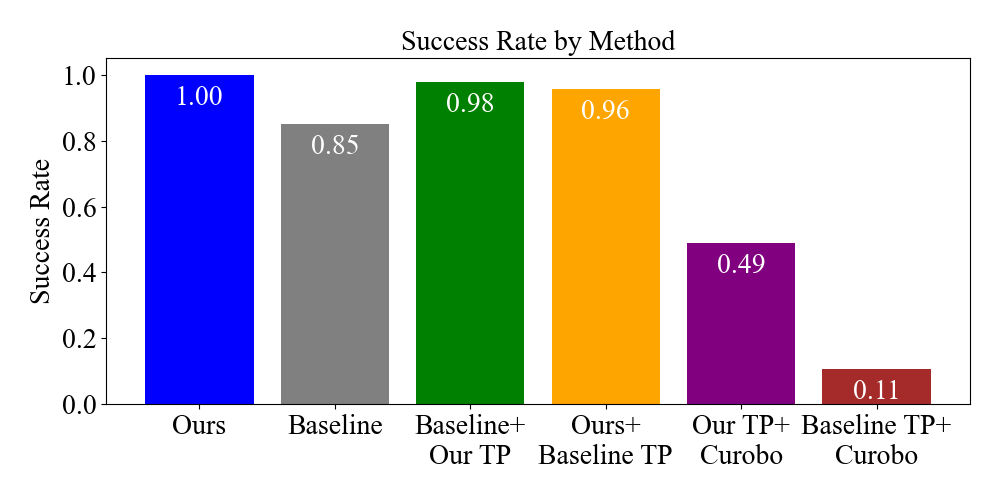
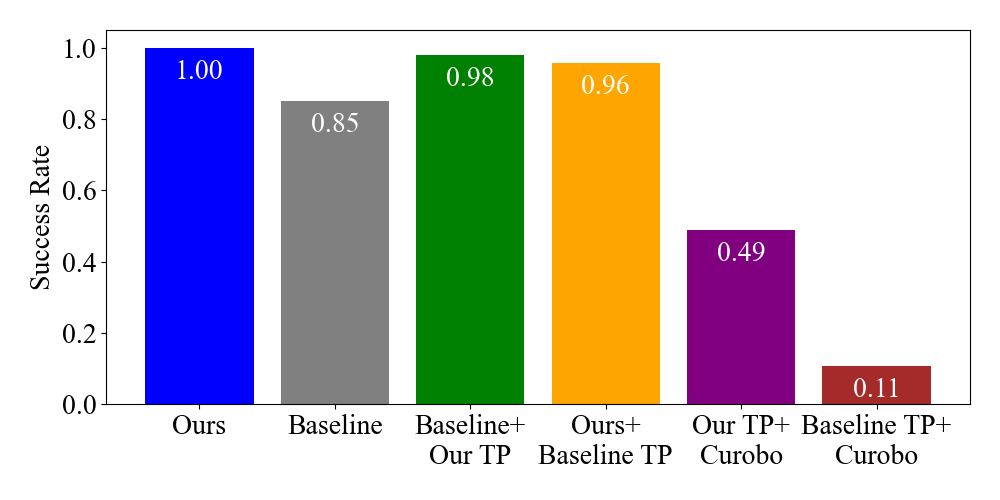
new results

diff --git a/visualize_execution_time.py b/visualize_execution_time.py
@@ -30,6 +30,14 @@ colors = {
     "baseline_tp_with_curobo": "brown"
 }
 
+type_short = {
+    "mixed": "M",
+    "cycled": "S",
+    "double_cycled": "D",
+    "random": "R",
+    "other": "O"
+}
+
 # Helper to extract number of objects from testcase name
 def extract_num_objects(name):
     parts = name.split("_")
@@ -37,6 +45,19 @@ def extract_num_objects(name):
         if part.isdigit():
             return int(part)
     return 0
+
+def get_type_short(name):
+    parts = name.split('_')
+    if len(parts) >= 2 and parts[0] == 'double' and parts[1] == 'cycled':
+        return 'D'
+    elif parts[0] == 'mixed':
+        return 'M'
+    elif parts[0] == 'cycled':
+        return 'S'
+    elif parts[0] == 'random':
+        return 'R'
+    else:
+        return 'O'
 
 # Step 1: Process each JSON testcase
 for filename in os.listdir(data_folder):
@@ -85,13 +106,14 @@ for t_type in testcase_types_order:
         )
 
 # Step 3: Prepare data for plotting
-testcase_names = [case["name"] for case in sorted_cases]
+testcase_names = [f"{get_type_short(case['name'])}{case['num_objects']}" for case in sorted_cases]
 group_spacing = 1.2  # or try 1.5 for even more spacing
 x = np.arange(len(testcase_names)) * group_spacing
 width = 0.2
 
 # Bar positions
-baseline_x = x - 2 * width
+baseline_x = x - 2.5 * width
+baseline_tp_with_curobo_x = x - 2 * width
 tp_x = x - width
 ours_tp_x = x
 our_tp_with_curobo_x = x + width
@@ -101,6 +123,7 @@ ours_x = x + 2 * width
 
 # Get times
 baseline_times = [case["baseline"] for case in sorted_cases]
+baseline_tp_with_curobo_times = [case["baseline_tp_with_curobo"] for case in sorted_cases]
 tp_times = [case["baseline_with_our_tp"] for case in sorted_cases]
 ours_tp_times = [case["ours_with_baseline_tp"] for case in sorted_cases]
 our_tp_with_curobo_times = [case["our_tp_with_curobo"] for case in sorted_cases]
@@ -108,22 +131,22 @@ ours_times = [case["ours"] for case in sorted_cases]
 
 
 # Step 4: Plot
-fig, ax = plt.subplots(figsize=(18, 6))
+fig, ax = plt.subplots(figsize=(25, 6))
 ax.bar(baseline_x, baseline_times, width, label="Baseline", color=colors["baseline"])
+ax.bar(baseline_tp_with_curobo_x, baseline_tp_with_curobo_times, width, label="Baseline TP+Curobo", color=colors["baseline_tp_with_curobo"])
 ax.bar(tp_x, tp_times, width, label="Baseline+Our TP", color=colors["baseline_with_our_tp"])
 ax.bar(ours_tp_x, ours_tp_times, width, label="Ours+Baseline TP", color=colors["ours_with_baseline_tp"])
 ax.bar(our_tp_with_curobo_x, our_tp_with_curobo_times, width, label="Our TP+Curobo", color=colors["our_tp_with_curobo"])
 ax.bar(ours_x, ours_times, width, label="Ours", color=colors["ours"])
 
 
-ax.set_xlabel("Test Cases", fontname='Times New Roman', fontsize=20)
+# ax.set_xlabel("Test Cases", fontname='Times New Roman', fontsize=20)
 ax.set_ylabel("Execution Time (s)", fontname='Times New Roman', fontsize=20)
-ax.set_title("Execution Time Comparison: Ours vs Baselines", fontname='Times New Roman', fontsize=20)
 ax.set_xticks(x)
-ax.set_xticklabels(testcase_names, rotation=45, ha="right", fontname='Times New Roman', fontsize=20)
+ax.set_xticklabels(testcase_names, fontname='Times New Roman', fontsize=15)
 ax.yaxis.set_tick_params(labelsize=20)
-ax.xaxis.set_tick_params(labelsize=20)
-leg = ax.legend(fontsize=20, loc='lower center', bbox_to_anchor=(0.5, -0.15), ncol=5)
+ax.xaxis.set_tick_params(labelsize=16)
+leg = ax.legend(fontsize=20, loc='upper center', ncol=6)
 for text in leg.get_texts():
     text.set_fontname('Times New Roman')
     text.set_fontsize(20)
@@ -154,7 +177,6 @@ bar_colors = [colors[method] for method in methods]
 ax.bar(bar_x, bar_heights, color=bar_colors, tick_label=[method_display_names[m] for m in methods])
 ax.set_ylim(0, 1.05)
 ax.set_ylabel("Success Rate", fontname='Times New Roman', fontsize=20)
-ax.set_title("Success Rate by Method", fontname='Times New Roman', fontsize=20)
 ax.xaxis.set_tick_params(labelsize=20)
 ax.yaxis.set_tick_params(labelsize=20)
 
@@ -197,7 +219,6 @@ for patch, color in zip(box['boxes'], box_colors):
 ax.axhline(y=1.0, color='red', linestyle='--', linewidth=1)
 
 ax.set_ylabel("Execution Time Ratio", fontname='Times New Roman', fontsize=20)
-ax.set_title("Execution Time Ratio Compared to Ours", fontname='Times New Roman', fontsize=20)
 ax.xaxis.set_tick_params(labelsize=20)
 ax.yaxis.set_tick_params(labelsize=20)
 plt.tight_layout()

diff --git a/visualize_num_actions.py b/visualize_num_actions.py
@@ -124,9 +124,15 @@ def plot_boxplot(ratios_by_type):
 		return
 	labels = []
 	data = []
+	label_to_display = {
+		'mixed': 'Mixed',
+		'cycled': 'Single Cycle',
+		'double_cycled': 'Double Cycle',
+		'random': 'Random'
+	}
 	for mt in MAP_TYPE_PREFIXES + ["other"]:
 		if mt in ratios_by_type and ratios_by_type[mt]:
-			labels.append(mt)
+			labels.append(label_to_display.get(mt, mt))
 			data.append(ratios_by_type[mt])
 
 	if not data:
@@ -135,11 +141,11 @@ def plot_boxplot(ratios_by_type):
 
 	plt.figure(figsize=(10, 5))
 	main_colors = {
-		'mixed': 'red',
-		'cycled': 'green',
-		'double_cycled': 'blue',
-		'random': 'orange',
-		'other': 'gray'
+		'Mixed': 'red',
+		'Single Cycle': 'green',
+		'Double Cycle': 'blue',
+		'Random': 'orange',
+		'Other': 'gray'
 	}
 	import matplotlib.colors as mcolors
 	def lighten(color, amount=0.5):
@@ -151,7 +157,8 @@ def plot_boxplot(ratios_by_type):
 		patch.set_facecolor(lighten(base_color, 0.5))
 	plt.axhline(1.0, color='red', linestyle='--', linewidth=1)
 	plt.ylabel("Num Actions Ratio (baseline / ours)", fontname='Times New Roman', fontsize=20)
-	plt.title("Baseline vs Ours: Num Actions Ratio by Map Type", fontname='Times New Roman', fontsize=20)
+	# Remove title
+	# plt.title("Baseline vs Ours: Num Actions Ratio by Map Type", fontname='Times New Roman', fontsize=20)
 	plt.xticks(fontsize=20)
 	plt.yticks(fontsize=20)
 	plt.tight_layout()
@@ -181,7 +188,8 @@ def plot_mean_bars(ratios_by_type):
 	plt.axhline(1.0, color='red', linestyle='--', linewidth=1)
 	plt.xticks(x, labels, fontsize=20)
 	plt.ylabel("Mean Ratio (baseline / ours)", fontname='Times New Roman', fontsize=20)
-	plt.title("Mean Num Actions Ratio by Map Type", fontname='Times New Roman', fontsize=20)
+	# Remove title
+	# plt.title("Mean Num Actions Ratio by Map Type", fontname='Times New Roman', fontsize=20)
 	plt.yticks(fontsize=20)
 	for i, m in enumerate(means):
 		plt.text(i, m + 0.02, f"{m:.2f}", ha='center', va='bottom', fontname='Times New Roman', fontsize=20)
@@ -201,12 +209,12 @@ def extract_num_objects(testcase_name: str) -> int:
 
 
 def plot_absolute_actions(action_counts):
-	type_display = {
-		'mixed': 'mixed',
-		'cycled': 'single cycle',
-		'double_cycled': 'double cycle',
-		'random': 'random',
-		'other': 'other'
+	type_short = {
+		'mixed': 'M',
+		'cycled': 'S',
+		'double_cycled': 'D',
+		'random': 'R',
+		'other': 'O'
 	}
 	"""Grouped bar plot of absolute action counts per testcase (baseline vs ours)."""
 	entries = []  # list of (map_type, num_objects, testcase, baseline_cnt, ours_cnt)
@@ -242,14 +250,14 @@ def plot_absolute_actions(action_counts):
 		c = mcolors.to_rgb(color)
 		return mcolors.to_hex([v * amount for v in c])
 
-	testcase_names = [f"{type_display.get(e[0], e[0])}_{e[1]}_objects" for e in entries]
+	testcase_names = [f"{type_short.get(e[0], 'O')}{e[1]}" for e in entries]
 	baseline_vals = [e[3] for e in entries]
 	ours_vals = [e[4] for e in entries]
 	map_types = [e[0] for e in entries]
 
 	import numpy as np
 	x = np.arange(len(testcase_names))
-	width = 0.6
+	width = 1.0  # Remove gap between bars by setting width to 1.0
 
 	plt.figure(figsize=(max(10, len(testcase_names)*0.5), 6))
 	for idx in range(len(x)):
@@ -280,9 +288,9 @@ def plot_absolute_actions(action_counts):
 		text.set_fontsize(16)
 
 	plt.ylabel('Number of Actions', fontname='Times New Roman', fontsize=20)
-	# plt.xlabel('Test Cases', fontname='Times New Roman', fontsize=20)
-	plt.title('Absolute Number of Actions per Test Case', fontname='Times New Roman', fontsize=20)
-	plt.xticks(x, testcase_names, rotation=45, ha='right', fontsize=10)
+	# Remove title
+	# plt.title('Absolute Number of Actions per Test Case', fontname='Times New Roman', fontsize=20)
+	plt.xticks(x, testcase_names, fontsize=10)
 	plt.yticks(fontsize=20)
 	plt.tight_layout()
 	out_path = os.path.join(RESULTS_DIR, 'num_actions_absolute_barplot.png')

diff --git a/visualize_planning_time.py b/visualize_planning_time.py
@@ -57,7 +57,6 @@ for i, field in enumerate(time_fields):
 ax.set_xticks(np.arange(len(case_names)) + bar_width/3)
 ax.set_xticklabels(case_names, rotation=45, ha='right', fontname='Times New Roman', fontsize=10)
 ax.set_ylabel("Average Time (s)", fontname='Times New Roman', fontsize=20)
-ax.set_title("Planning Times by Test Case (Ours)", fontname='Times New Roman', fontsize=20)
 ax.yaxis.set_tick_params(labelsize=20)
 ax.xaxis.set_tick_params(labelsize=10)
 leg = ax.legend(fontsize=16, loc='upper right')
@@ -86,7 +85,6 @@ for i, mt in enumerate(map_types):
 ax.set_xticks(x + width*1.5)
 ax.set_xticklabels(labels, fontname='Times New Roman', fontsize=20)
 ax.set_ylabel("Average Time (s)", fontname='Times New Roman', fontsize=20)
-ax.set_title("Average Planning Times by Map Type (Ours)", fontname='Times New Roman', fontsize=20)
 ax.yaxis.set_tick_params(labelsize=20)
 ax.xaxis.set_tick_params(labelsize=20)
 leg = ax.legend(fontsize=16, loc='upper right')
